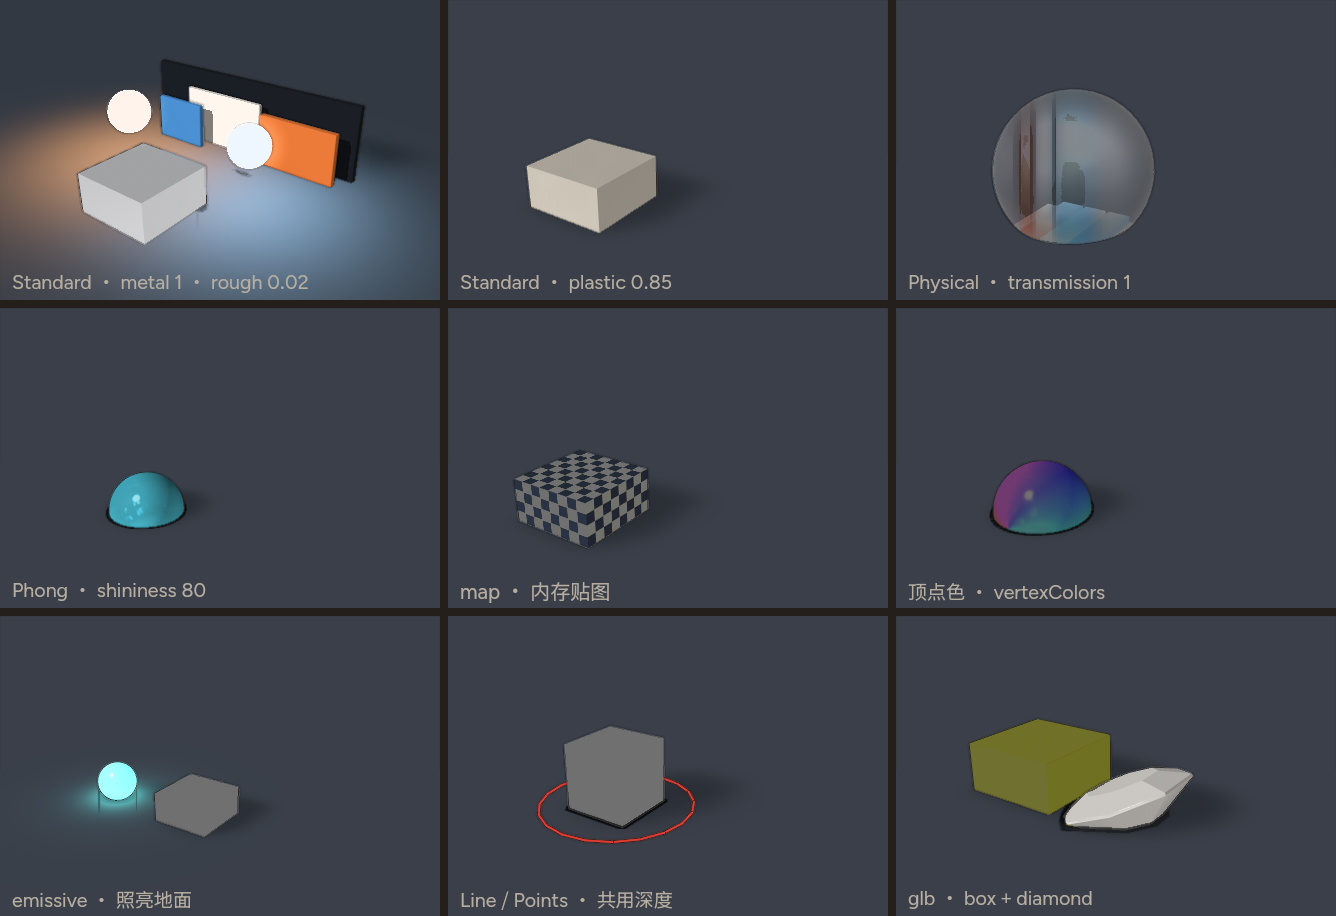
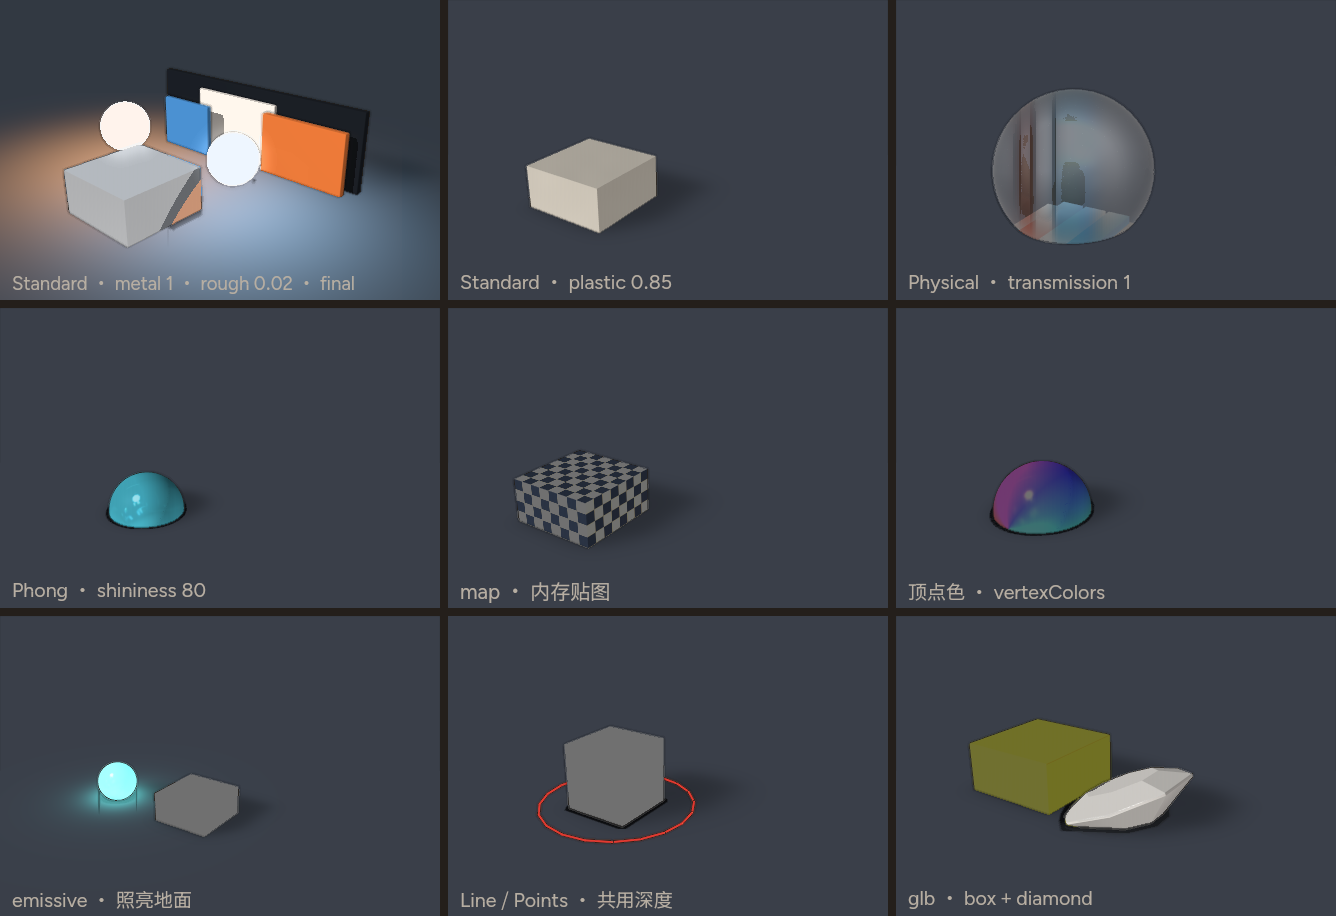
QUALITY-6 metalfinal: Standard metal cell uses quality=final
Draft SSR left the cube chalk under cubepolish A/B. Final BVH
reflections pick bounce cards and lamp spheres; cooler mid albedo.

Changed region(s): [[0.0, 0.0611, 0.2762, 0.3362]]

diff --git a/docs/gallery/3d/model/standard-metal.tsx b/docs/gallery/3d/model/standard-metal.tsx
@@ -4,34 +4,40 @@ import * as THREE from 'three'
 
 // QUALITY-6 §E.2 cell 1: MeshStandardMaterial, metalness 1.
 // SPEC maps metalness ≥ 0.5 to `metal`. Keep Standard (not Physical).
-// Cubepolish: restore seampale layout that scored model **8**; engine now
-// skips void FILL on rough<0.05 so bounce/SSR hues are not chalk-washed.
+// Metalfinal: draft SSR never painted bounce color onto the cube (cubepolish
+// A/B model 5–6). quality=final enables BVH reflections of the cards/lamps;
+// slightly cooler mid albedo so those hits read against the body.
 const mesh = new THREE.Mesh(
   new THREE.BoxGeometry(1, 1, 1),
-  new THREE.MeshStandardMaterial({ color: '#e0e6ee', metalness: 1, roughness: 0.02 }),
+  new THREE.MeshStandardMaterial({ color: '#c5ced8', metalness: 1, roughness: 0.02 }),
 )
 
 export default layer.create(
   <layer width={440} height={300} background="#241f1b">
-    <layer width={440} height={300} camera="fov 34, orbit 38 26, distance 860, at 220 200 0" light="world">
-      <light type="hemisphere" intensity="0.45" color="#e8eef4" ground-color="#3a4048" />
-      <light type="directional" intensity="0.85" color="#ffffff" x="-180" y="-420" z="520" target="0 0 0" />
-      <light type="point" intensity="3.2" color="#ff9a4a" x="300" y="40" z="220" distance="700" />
-      <light type="point" intensity="2.0" color="#8ec8ff" x="-120" y="60" z="180" distance="500" />
+    <layer
+      width={440}
+      height={300}
+      camera="fov 34, orbit 42 22, distance 820, at 220 185 0"
+      light="world"
+      quality="final"
+    >
+      <light type="hemisphere" intensity="0.4" color="#e8eef4" ground-color="#3a4048" />
+      <light type="directional" intensity="0.9" color="#ffffff" x="-180" y="-420" z="520" target="0 0 0" />
+      <light type="point" intensity="3.6" color="#ff9a4a" x="300" y="40" z="220" distance="700" />
+      <light type="point" intensity="2.4" color="#8ec8ff" x="-120" y="60" z="180" distance="500" />
       <ground y={220} rotateX={90} fill="#2a3038" shadow-blur={52} shadow-opacity={0.34} />
-      {/* World-space bounce lamps so polished faces pick color without SSR luck. */}
-      <sphere cx="95" cy="130" r="36" z="90" fill="#ff7a30" material="lamp" />
-      <sphere cx="340" cy="125" r="32" z="85" fill="#5aa8ff" material="lamp" />
+      <sphere cx="100" cy="145" r="40" z="100" fill="#ff7a30" material="lamp" />
+      <sphere cx="330" cy="140" r="36" z="95" fill="#5aa8ff" material="lamp" />
       <layer x={28} y={220} width={400} height={190} origin="200 0" rotateX={90} preserve-3d>
         <rect x="-10" y="-80" width="420" height="12" depth="260" fill="#1a1e24" />
-        <rect x="250" y="-45" width="140" height="12" depth="180" fill="#e87838" />
-        <rect x="30" y="-30" width="100" height="10" depth="160" fill="#4a8fd0" />
-        <rect x="80" y="-55" width="160" height="8" depth="200" fill="#fff4ea" />
-        <model object={mesh} unit={128} x={200} y={190} material="finish metal, color #d8e0e8, roughness 0.03, metalness 1" />
+        <rect x="245" y="-55" width="150" height="12" depth="200" fill="#e87838" />
+        <rect x="25" y="-40" width="110" height="10" depth="180" fill="#4a8fd0" />
+        <rect x="85" y="-70" width="170" height="8" depth="220" fill="#fff4ea" />
+        <model object={mesh} unit={132} x={200} y={188} material="finish metal, color #c5ced8, roughness 0.02, metalness 1" />
       </layer>
     </layer>
-    <layer x={12} y={272}>
-      <p style="font-size:19px; color:#b7aea2">Standard · metal 1 · rough 0.02</p>
+    <layer x={12} y={274}>
+      <p style="font-size:18px; color:#b7aea2">Standard · metal 1 · rough 0.02 · final</p>
     </layer>
   </layer>,
 )
